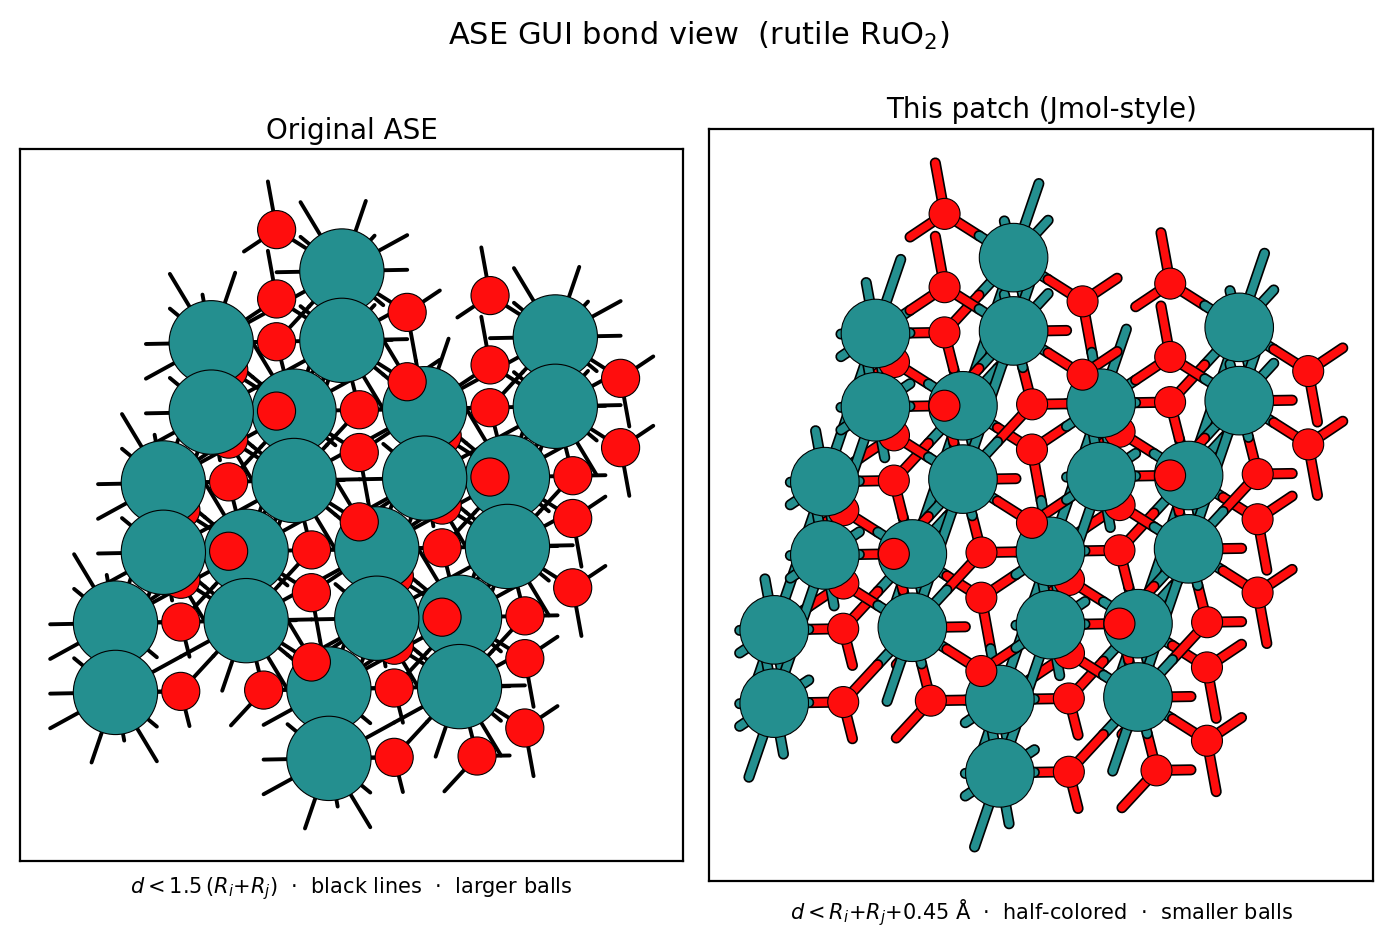
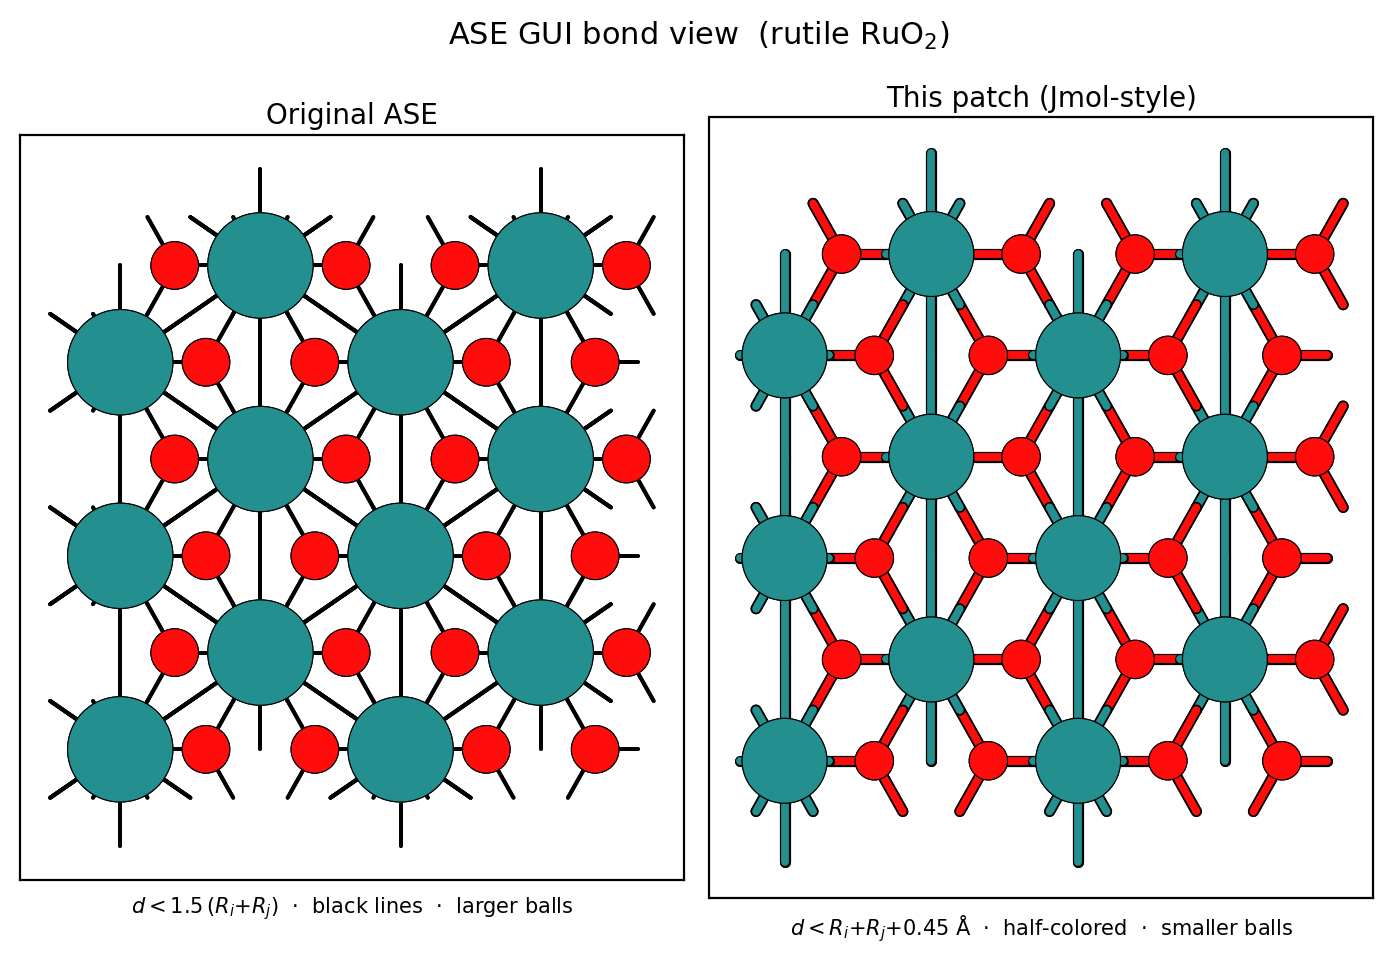
Use side view for the comparison figure
Project along y (x horizontal, z vertical) instead of a tilted view, so the
extra Ru-Ru bonds from ASE's 1.5x rule vs. this patch read more clearly.

Generated with AI

diff --git a/compare_views.py b/compare_views.py
@@ -89,7 +89,7 @@ def draw_panel(ax, atoms, P, depth, title, sub, *, half_color, cutoffs, ball):
             fontsize=7.5)
 
 
-R = rot(-72, 18)
+R = rot(-90, 0)        # side view: x horizontal, z vertical, looking along y
 
 
 def main():
